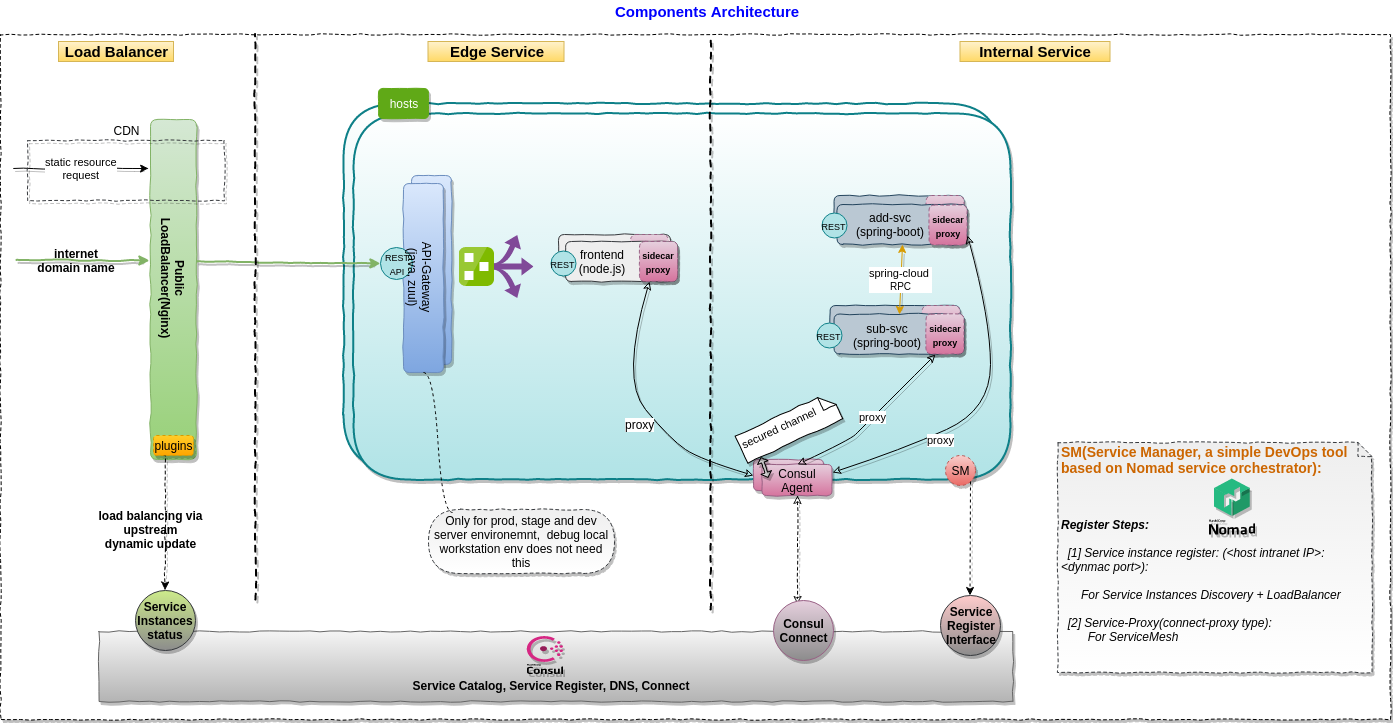
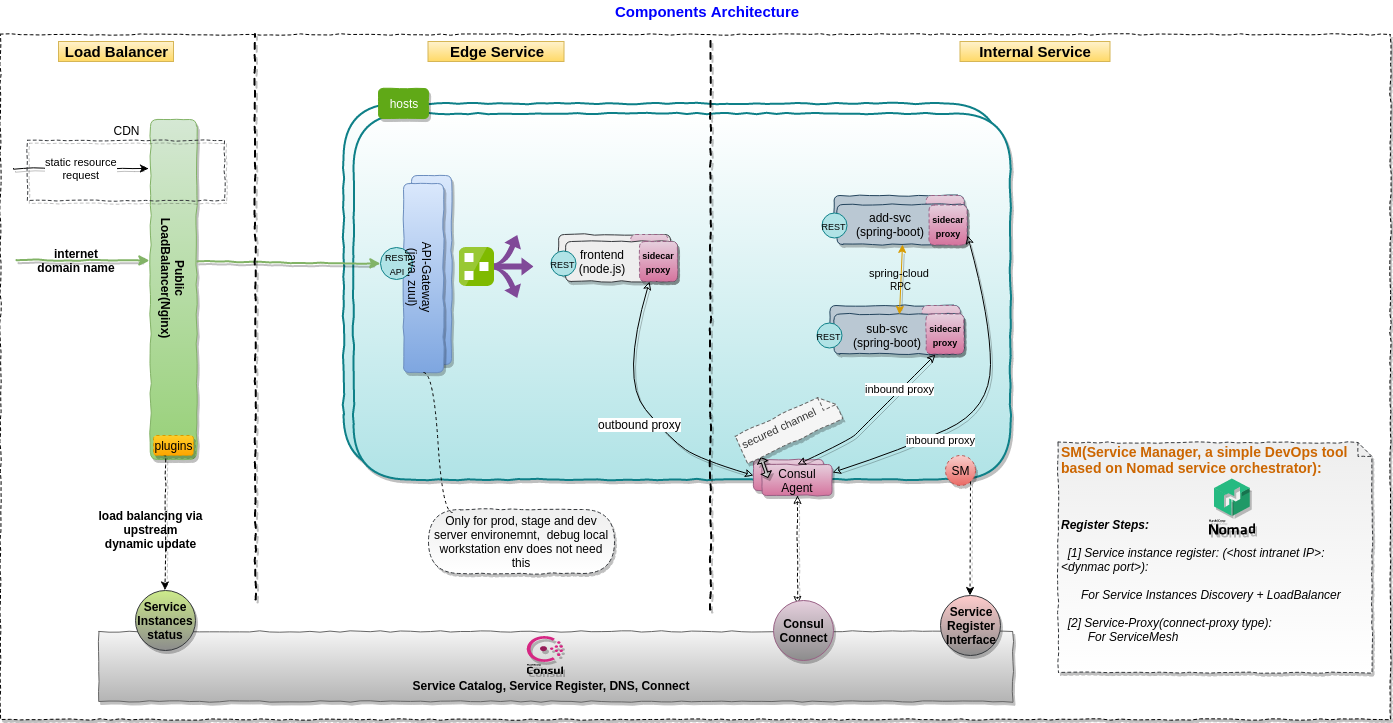
update doc

diff --git a/README.md b/README.md
@@ -62,6 +62,20 @@ For each service, we will schedule two instances and check the service discovery
 	./start_all_jobs.sh
 	```
 
+  After start all jobs, we can see 4 connect-proxy(inbound side proxy) instances created:
+	```shell
+	root      4222  4180  0 14:25 ?        00:00:00 /opt/consul/bin/consul connect proxy -service add-svc -service-addr 10.10.10.150:22130 -listen :28489 -register -register-id 28489
+	root      4223  4171  0 14:25 ?        00:00:00 /opt/consul/bin/consul connect proxy -service add-svc -service-addr 10.10.10.150:24291 -listen :26604 -register -register-id 26604
+	root      4273  4203  0 14:25 ?        00:00:00 /opt/consul/bin/consul connect proxy -service sub-svc -service-addr 10.10.10.150:23454 -listen :26351 -register -register-id 26351
+	root      4275  4207  0 14:25 ?        00:00:00 /opt/consul/bin/consul connect proxy -service sub-svc -service-addr 10.10.10.150:25384 -listen :28277 -register -register-id 28277
+	```
+
+	as well as two upstream-proxy(outbound side proxy) instances:
+	```shell
+	root      4304  4259  0 14:25 ?        00:00:00 /opt/consul/bin/consul connect proxy -service frontend -upstream sub-svc:28153
+	root      4322  4260  0 14:25 ?        00:00:00 /opt/consul/bin/consul connect proxy -service frontend -upstream add-svc:28663
+	```
+
 - Run the sample 
 
   In VM:
